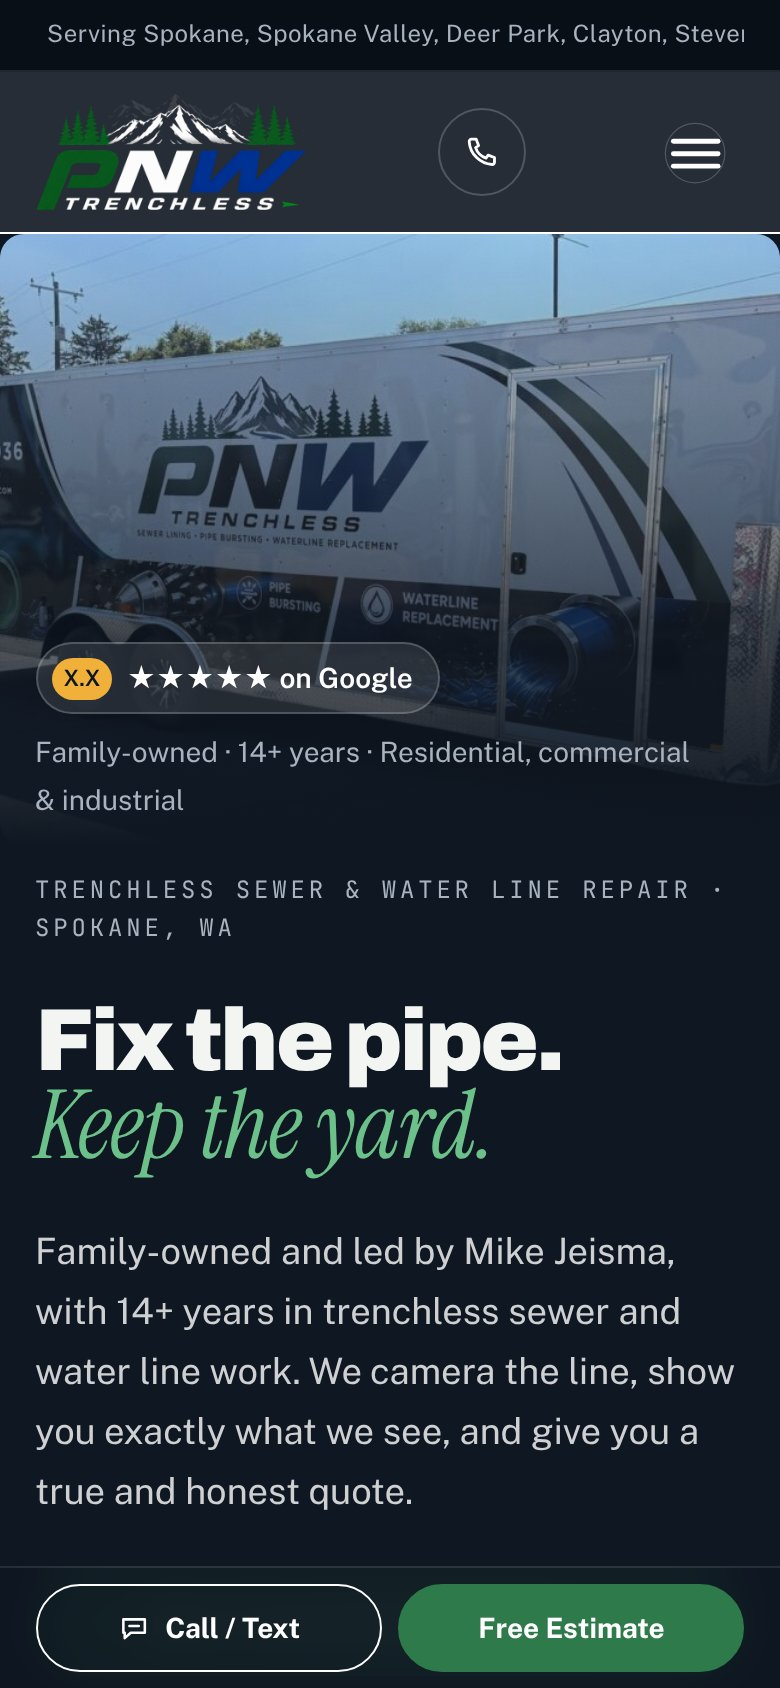
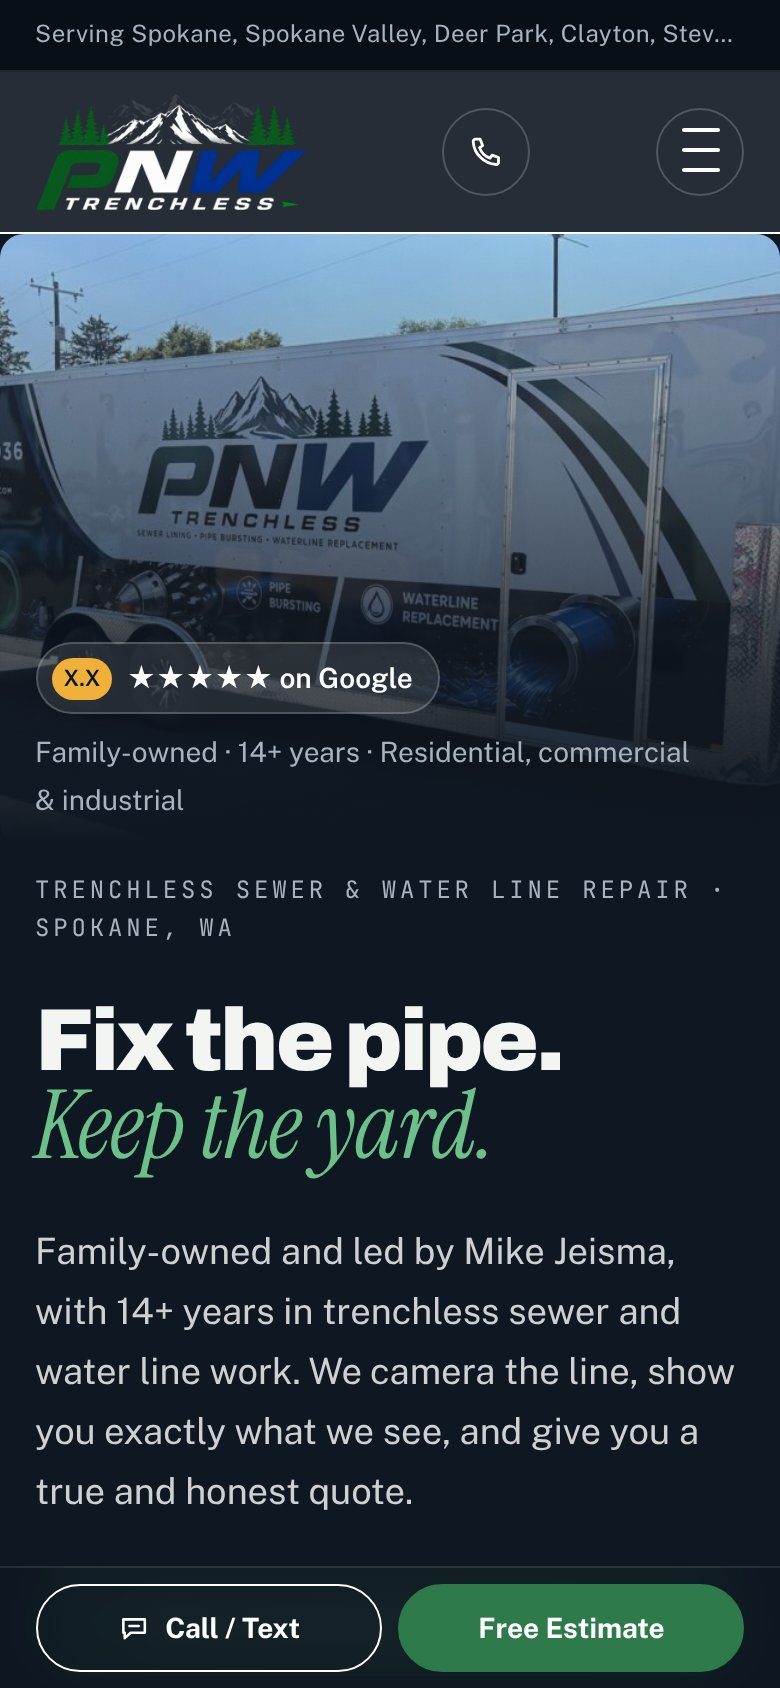
Mobile menu: final phone screenshots (logged out and with admin bar) and toggle/admin-bar notes
Claude-Session: https://claude.ai/code/session_01N9xnSVN4vX21C8ignbJAna

diff --git a/.claude/skills/pnw-trenchless-project/SKILL.md b/.claude/skills/pnw-trenchless-project/SKILL.md
@@ -113,7 +113,7 @@ Mobile call bar.
   - ACSS had been regenerated without the Bricks platform flag (empty `automatic-bricks.css`, no `btn--` classes). Rebuilt with it; base (ink) buttons enabled. Second backup: `pnw_acss_settings_backup_20261108b`.
   - Media: logos, trailer, 3 job photos, 37 SVG icons/illustrations (`pnw-trenchless/wp-assets/svg/`), in HappyFiles folders. IDs stored in WP option `pnw_media_ids`.
   - 259 BEM global classes, category `PNW`, ACSS variables only. Source: `pnw-trenchless/wp-build/classes.py`.
-  - Header template 101, footer template 102 (entire site). The nav is the native **Nav (Nestable)** element (`nav-nested`, mobile below 1200px). Its links live in `NAV_LINKS` in `elements.py` (the WP menu `PNW Main`, id 10, is no longer used). The mobile panel slides in from the right with a backdrop, staggered links, a hamburger-to-X toggle and the phone + Get a Quote button. Bricks handles the scroll lock, focus trap, Esc, outside tap and anchor-link close. The call bar hides while the menu is open. Home = page 94 (front page), 16 sections. Source: `pnw-trenchless/wp-build/elements.py`.
+  - Header template 101, footer template 102 (entire site). The nav is the native **Nav (Nestable)** element (`nav-nested`, mobile below 1200px). Its links live in `NAV_LINKS` in `elements.py` (the WP menu `PNW Main`, id 10, is no longer used). The mobile panel (full width on phones, 26em with a blurred backdrop on tablets) slides in from the right. It has a top bar with the logo and a circled X, staggered links with an arrow on hover/active, and below them the phone, Get a Quote, email/Facebook and the service-area line. It starts below the WP admin bar. The toggles match the 44px phone button. Bricks handles the scroll lock, focus trap, Esc, outside tap and anchor-link close. The call bar hides while the menu is open. Home = page 94 (front page), 16 sections. Source: `pnw-trenchless/wp-build/elements.py`.
   - Re-sync everything with `pnw-trenchless/wp-build/import.php` (run through execute-php with `$sha` = a pushed commit). It rebuilds the Home page, so manual Bricks edits to page 94 / templates 101–102 are overwritten: change the generators instead, or stop using the script.
   - Final screenshots: `pnw-trenchless/screenshots/bricks-staging/`.
 - **Known differences from the design / open items:**

diff --git a/.claude/skills/bricks-acss-build-conventions/SKILL.md b/.claude/skills/bricks-acss-build-conventions/SKILL.md
@@ -103,3 +103,5 @@ Learned from the agency's reference build (the "Hartwell & Crane" template on wh
 - **Accordion content:** never set `display` on the content wrapper class. It overrides Bricks' `display: none` for closed items.
 - **Headless screenshots of stackstaging sites:** the page cache and bot challenge block Playwright. Fetch HTML with curl plus a cache-busting query, add `<base href>`, and route asset requests through `route.fetch` with a curl user-agent. Full-page captures stop at 16,384px.
 - **Nav (Nestable) mobile menu:** Bricks adds `brx-open` to the nav (and `brx-closing` for 200ms on close), `no-scroll` to `body`, traps focus in `.brx-nav-nested-items`, closes on Esc, outside click and any `#` link tap, and moves focus to the close toggle. For smooth motion, keep the items panel rendered under the breakpoint (`display: flex !important; position: fixed !important`) and animate `visibility`/`opacity`/`transform` between the closed, `.brx-open` and `.brx-open.brx-closing` states. Bricks wraps each nav child, including the close toggle, in an `li`: position that `li` (`li:has(> .nav__close)`), not just the toggle.
+- **Bricks toggle sizing:** `.brxe-toggle:has(.brxa-wrap)` is `transform: scale(var(--brxe-toggle-scale))`, which scales the whole button, circle included. Keep the scale at 1 and size the hamburger with `--brxe-toggle-width/-height/-bar-width/-bar-height`. Set an explicit `font-size` on the toggle, because buttons don't inherit it and `em` sizes drift.
+- **Logged-in admin bar:** offset fixed panels and backdrops with `top: var(--wp-admin--admin-bar--height, 0)`.
